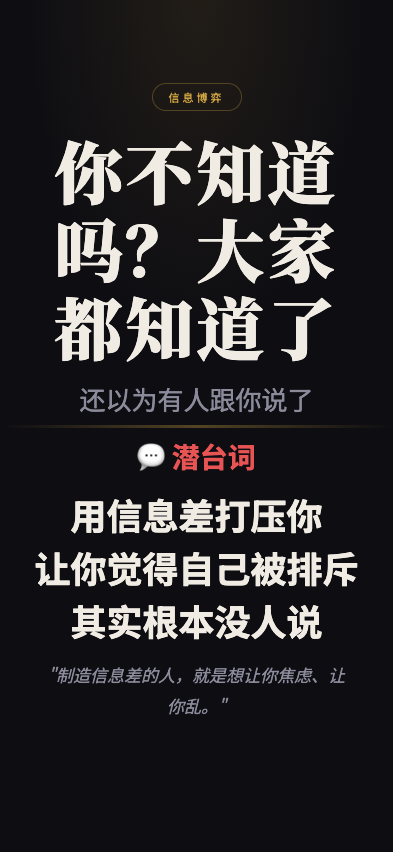
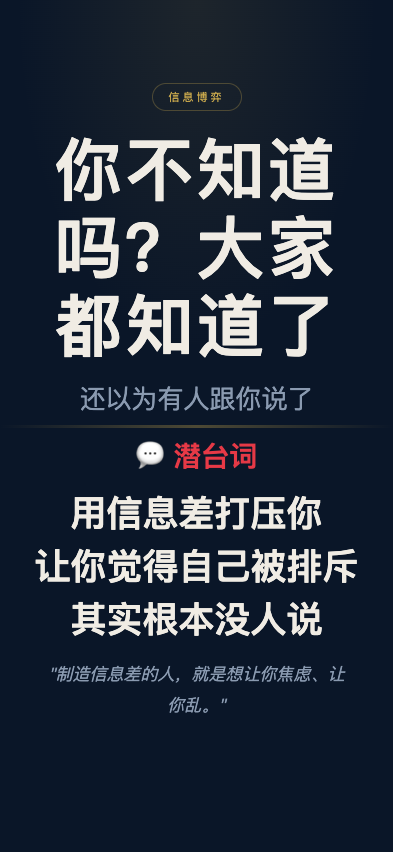
feat: 职场生存法则 screenshot - woshuohuabijiaozhi

diff --git a/wuliao-tools/tools/biz-speak/scenes/nibuzhidaomadajiadouzhidaole.html b/wuliao-tools/tools/biz-speak/scenes/nibuzhidaomadajiadouzhidaole.html
@@ -7,11 +7,11 @@
 <link href="https://fonts.googleapis.com/css2?family=Noto+Serif+SC:wght@400;700;900&family=Noto+Sans+SC:wght@300;400;700&display=swap" rel="stylesheet">
 <style>
   :root {
-    --bg: #0d0d12;
+    --bg: #0a1628;
     --text: #f0ece4;
-    --text-dim: #8a8a9a;
-    --gold: #d4a843;
-    --red: #e85454;
+    --text-dim: #8a9ab0;
+    --gold: #c9a84c;
+    --red: #e63946;
   }
   * { margin:0; padding:0; box-sizing:border-box; }
   html, body { width:100%; height:100%; overflow:hidden; }
@@ -24,11 +24,11 @@
   }
   body::before {
     content:''; position:absolute; top:0; left:0; right:0; height:45%;
-    background:radial-gradient(ellipse at 50% 0%, rgba(212,168,67,0.1) 0%, transparent 65%);
+    background:radial-gradient(ellipse at 50% 0%, rgba(201,168,76,0.1) 0%, transparent 65%);
     pointer-events:none; z-index:0;
   }
   .top { flex:1; display:flex; flex-direction:column; align-items:center; justify-content:flex-end; padding:4px 28px 8px; position:relative; z-index:1; }
-  .tag { font-size:11px; letter-spacing:3px; color:var(--gold); border:1px solid rgba(212,168,67,0.3); padding:5px 16px; border-radius:50px; margin-bottom:20px; }
+  .tag { font-size:11px; letter-spacing:3px; color:var(--gold); border:1px solid rgba(201,168,76,0.3); padding:5px 16px; border-radius:50px; margin-bottom:20px; }
   .main-title { font-family:'Noto Serif SC'; font-size:68px; font-weight:900; text-align:center; line-height:1.15; letter-spacing:3px; min-width:0; overflow-wrap:break-word; max-width:92%; }
   .sub-title { font-size:26px; color:var(--text-dim); text-align:center; margin-top:14px; }
   .divider { width:100%; height:3px; background:linear-gradient(90deg,transparent,var(--gold),transparent); opacity:0.35; flex-shrink:0; position:relative; z-index:1; }
@@ -39,7 +39,7 @@
   .quote { font-size:17px; color:var(--text-dim); font-style:italic; text-align:center; line-height:1.8; margin-top:18px; padding:0 12px; }
 </style>
 </head>
-<body>
+<body class="theme-1">
   <div class="top">
     <div class="tag">信息博弈</div>
     <div class="main-title">你不知道吗？大家都知道了</div>
@@ -49,9 +49,7 @@
   <div class="bottom">
     <div class="truth-label">💬 潜台词</div>
     <div class="truth-lines">
-      <div class="truth-line">用信息差打压你</div>
-      <div class="truth-line">让你觉得自己被排斥</div>
-      <div class="truth-line">其实根本没人说</div>
+      <div class="truth-line">用信息差打压你</div><div class="truth-line">让你觉得自己被排斥</div><div class="truth-line">其实根本没人说</div>
     </div>
     <div class="quote">"制造信息差的人，就是想让你焦虑、让你乱。"</div>
   </div>
